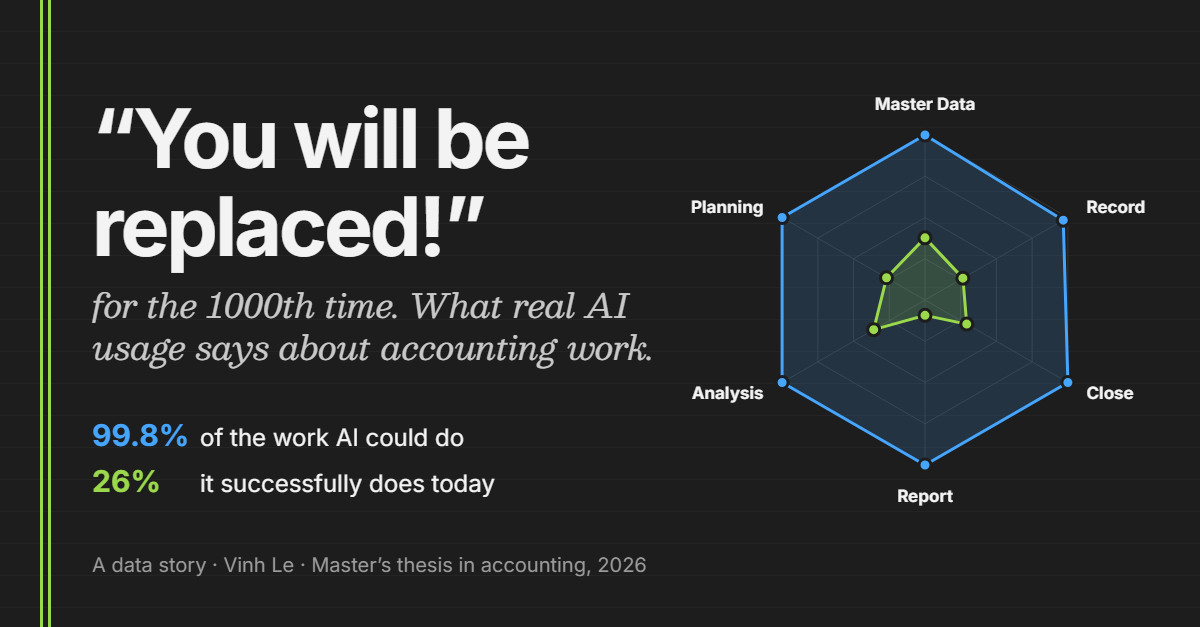
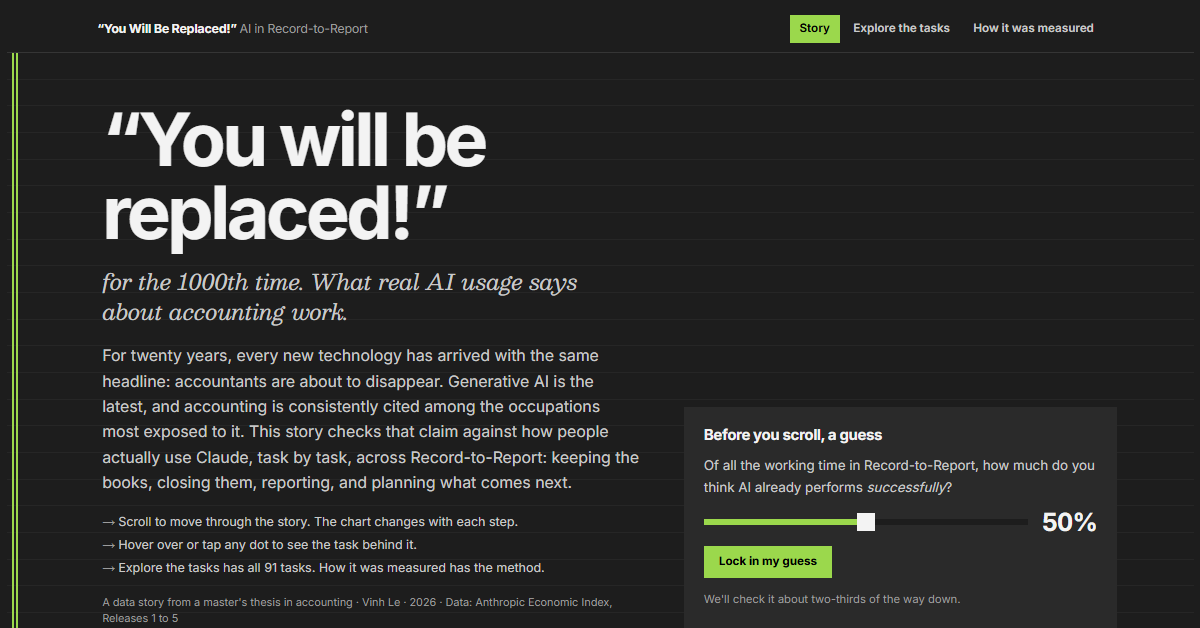
Use the story's opening screen as the link-preview image

diff --git a/docs/index.html b/docs/index.html
@@ -13,8 +13,8 @@
 <meta property="og:url" content="https://vvinhhh.github.io/masters-thesis/">
 <meta property="og:image" content="https://vvinhhh.github.io/masters-thesis/social-card.png">
 <meta property="og:image:width" content="1200">
-<meta property="og:image:height" content="627">
-<meta property="og:image:alt" content="Radar chart: AI could do 99.8% of Record-to-Report work but successfully does 26%.">
+<meta property="og:image:height" content="628">
+<meta property="og:image:alt" content="The opening screen of the story: “You will be replaced!” for the 1000th time. What real AI usage says about accounting work.">
 <meta name="twitter:card" content="summary_large_image">
 <link rel="preconnect" href="https://fonts.googleapis.com">
 <link rel="preconnect" href="https://fonts.gstatic.com" crossorigin>

diff --git a/scrollytelling/template.html b/scrollytelling/template.html
@@ -8,8 +8,8 @@
 <meta property="og:url" content="https://vvinhhh.github.io/masters-thesis/">
 <meta property="og:image" content="https://vvinhhh.github.io/masters-thesis/social-card.png">
 <meta property="og:image:width" content="1200">
-<meta property="og:image:height" content="627">
-<meta property="og:image:alt" content="Radar chart: AI could do 99.8% of Record-to-Report work but successfully does 26%.">
+<meta property="og:image:height" content="628">
+<meta property="og:image:alt" content="The opening screen of the story: “You will be replaced!” for the 1000th time. What real AI usage says about accounting work.">
 <meta name="twitter:card" content="summary_large_image">
 <link rel="preconnect" href="https://fonts.googleapis.com">
 <link rel="preconnect" href="https://fonts.gstatic.com" crossorigin>

diff --git a/scrollytelling/build_data.py b/scrollytelling/build_data.py
@@ -9,8 +9,13 @@ Writes scrollytelling/data.json and scrollytelling/index.html (template.html wit
 data inlined, so the page works as a single file, even opened from disk), and copies the
 page plus social-card.png into docs/, the folder GitHub Pages publishes.
 
-social-card.png (the 1200x627 link-preview image) is drawn by social-card.html; regenerate it
-by opening that page through a local server and saving the canvas.
+social-card.png (the link-preview image for LinkedIn etc.) is a screenshot of the page's first
+screen on a 1440x753 laptop view, scaled to 1200x628. To redo it, serve this folder locally
+(python -m http.server 8765 --directory scrollytelling) and run, in PowerShell:
+
+    & "C:\\Program Files (x86)\\Microsoft\\Edge\\Application\\msedge.exe" --headless=new --hide-scrollbars `
+      --window-size=1440,753 --force-device-scale-factor=0.8333333 --virtual-time-budget=8000 `
+      --force-dark-mode --screenshot="$PWD\\scrollytelling\\social-card.png" http://localhost:8765/index.html
 """
 import json
 import sys
